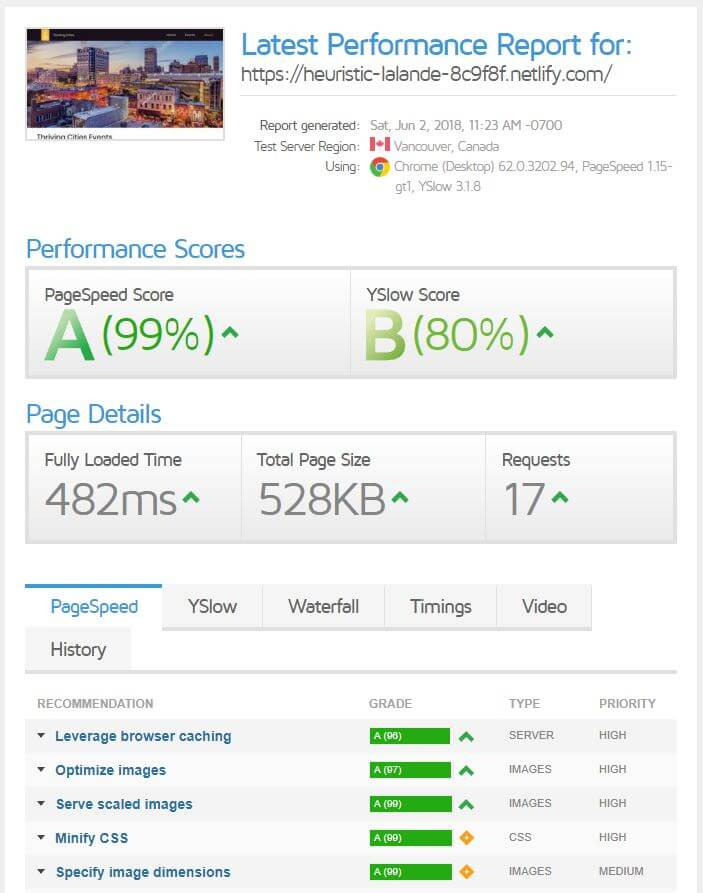
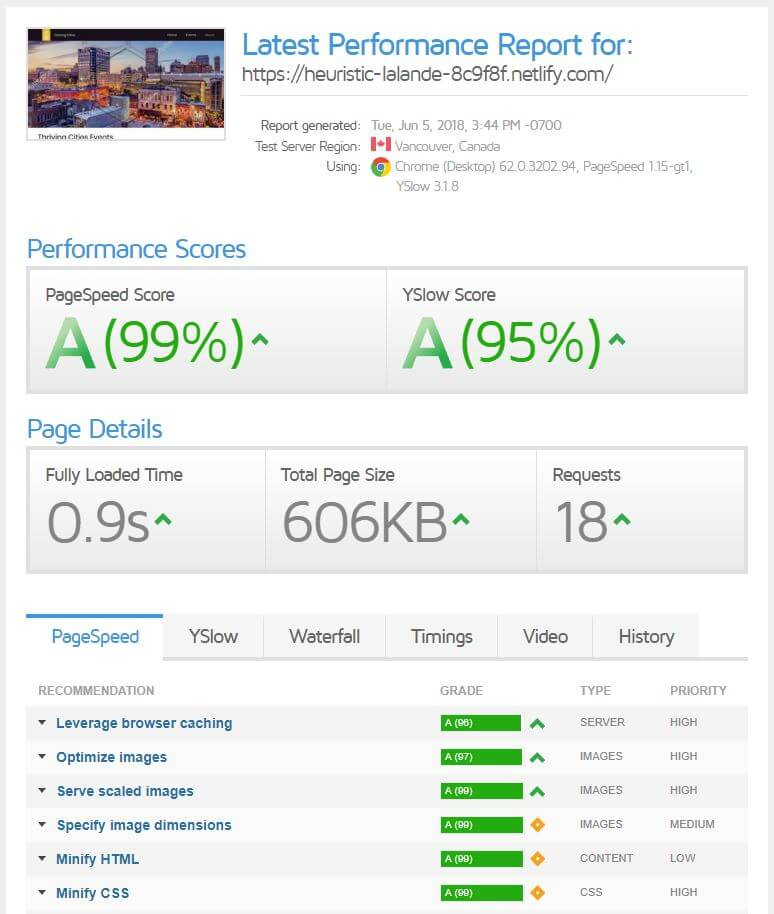
final update

diff --git a/site/layouts/about/single.html b/site/layouts/about/single.html
@@ -22,16 +22,11 @@
       <h3>Site performance</h3>
       <p>This site is super fast! I like to use
         <a href="https://gtmetrix.com/">GTMetrix</a> for performance ratings, you can analyze any URL for comparision. The image shown here is a summary
-        of the results. There are two reasons for the relatively low YSlow score: the first is that GTMetrix doesn't currently
-        recognize the CDN we are using, and the second is that we have not yet added expiration dates to the static images
-        for a browser cache.</p>
-
-
+        of the results.</p>
       <picture>
         <source media="(min-width: 960px)" srcset="./img/gtmetrix-score.jpg">
         <img src="./img/gtmetrix-score-mobile.jpg" alt="">
       </picture>
-
     </section>
 
     <section>
